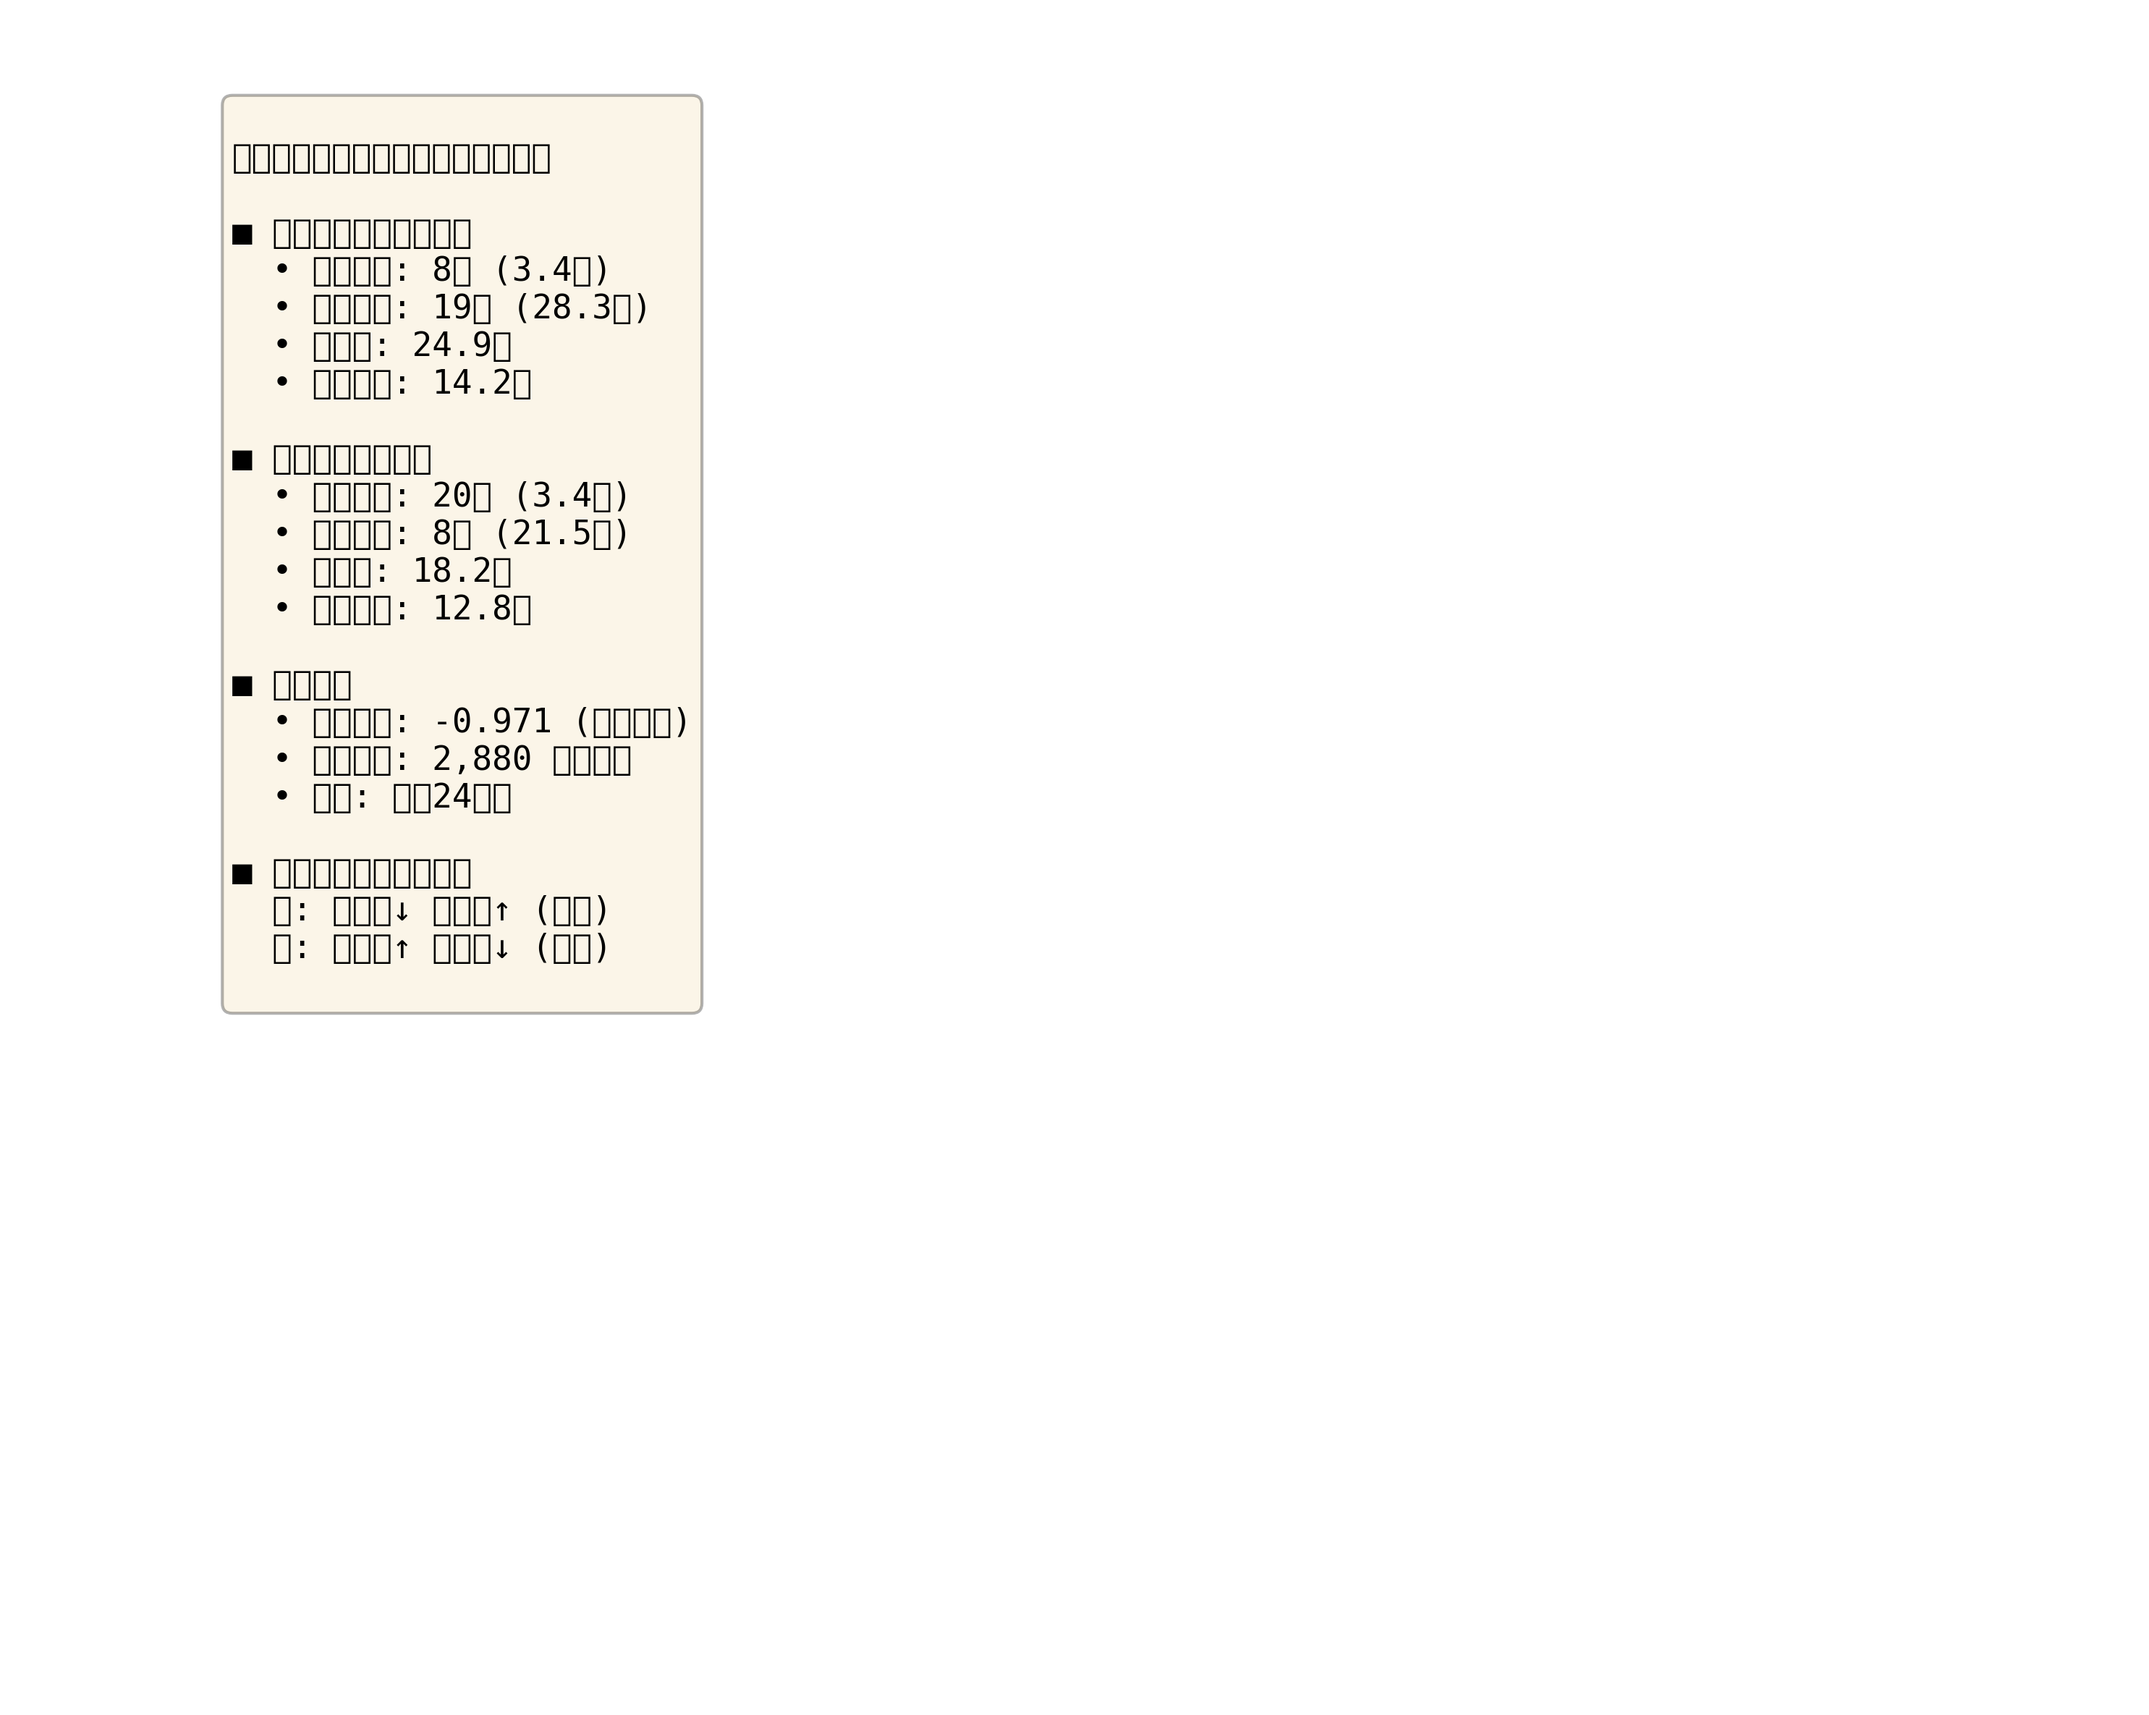
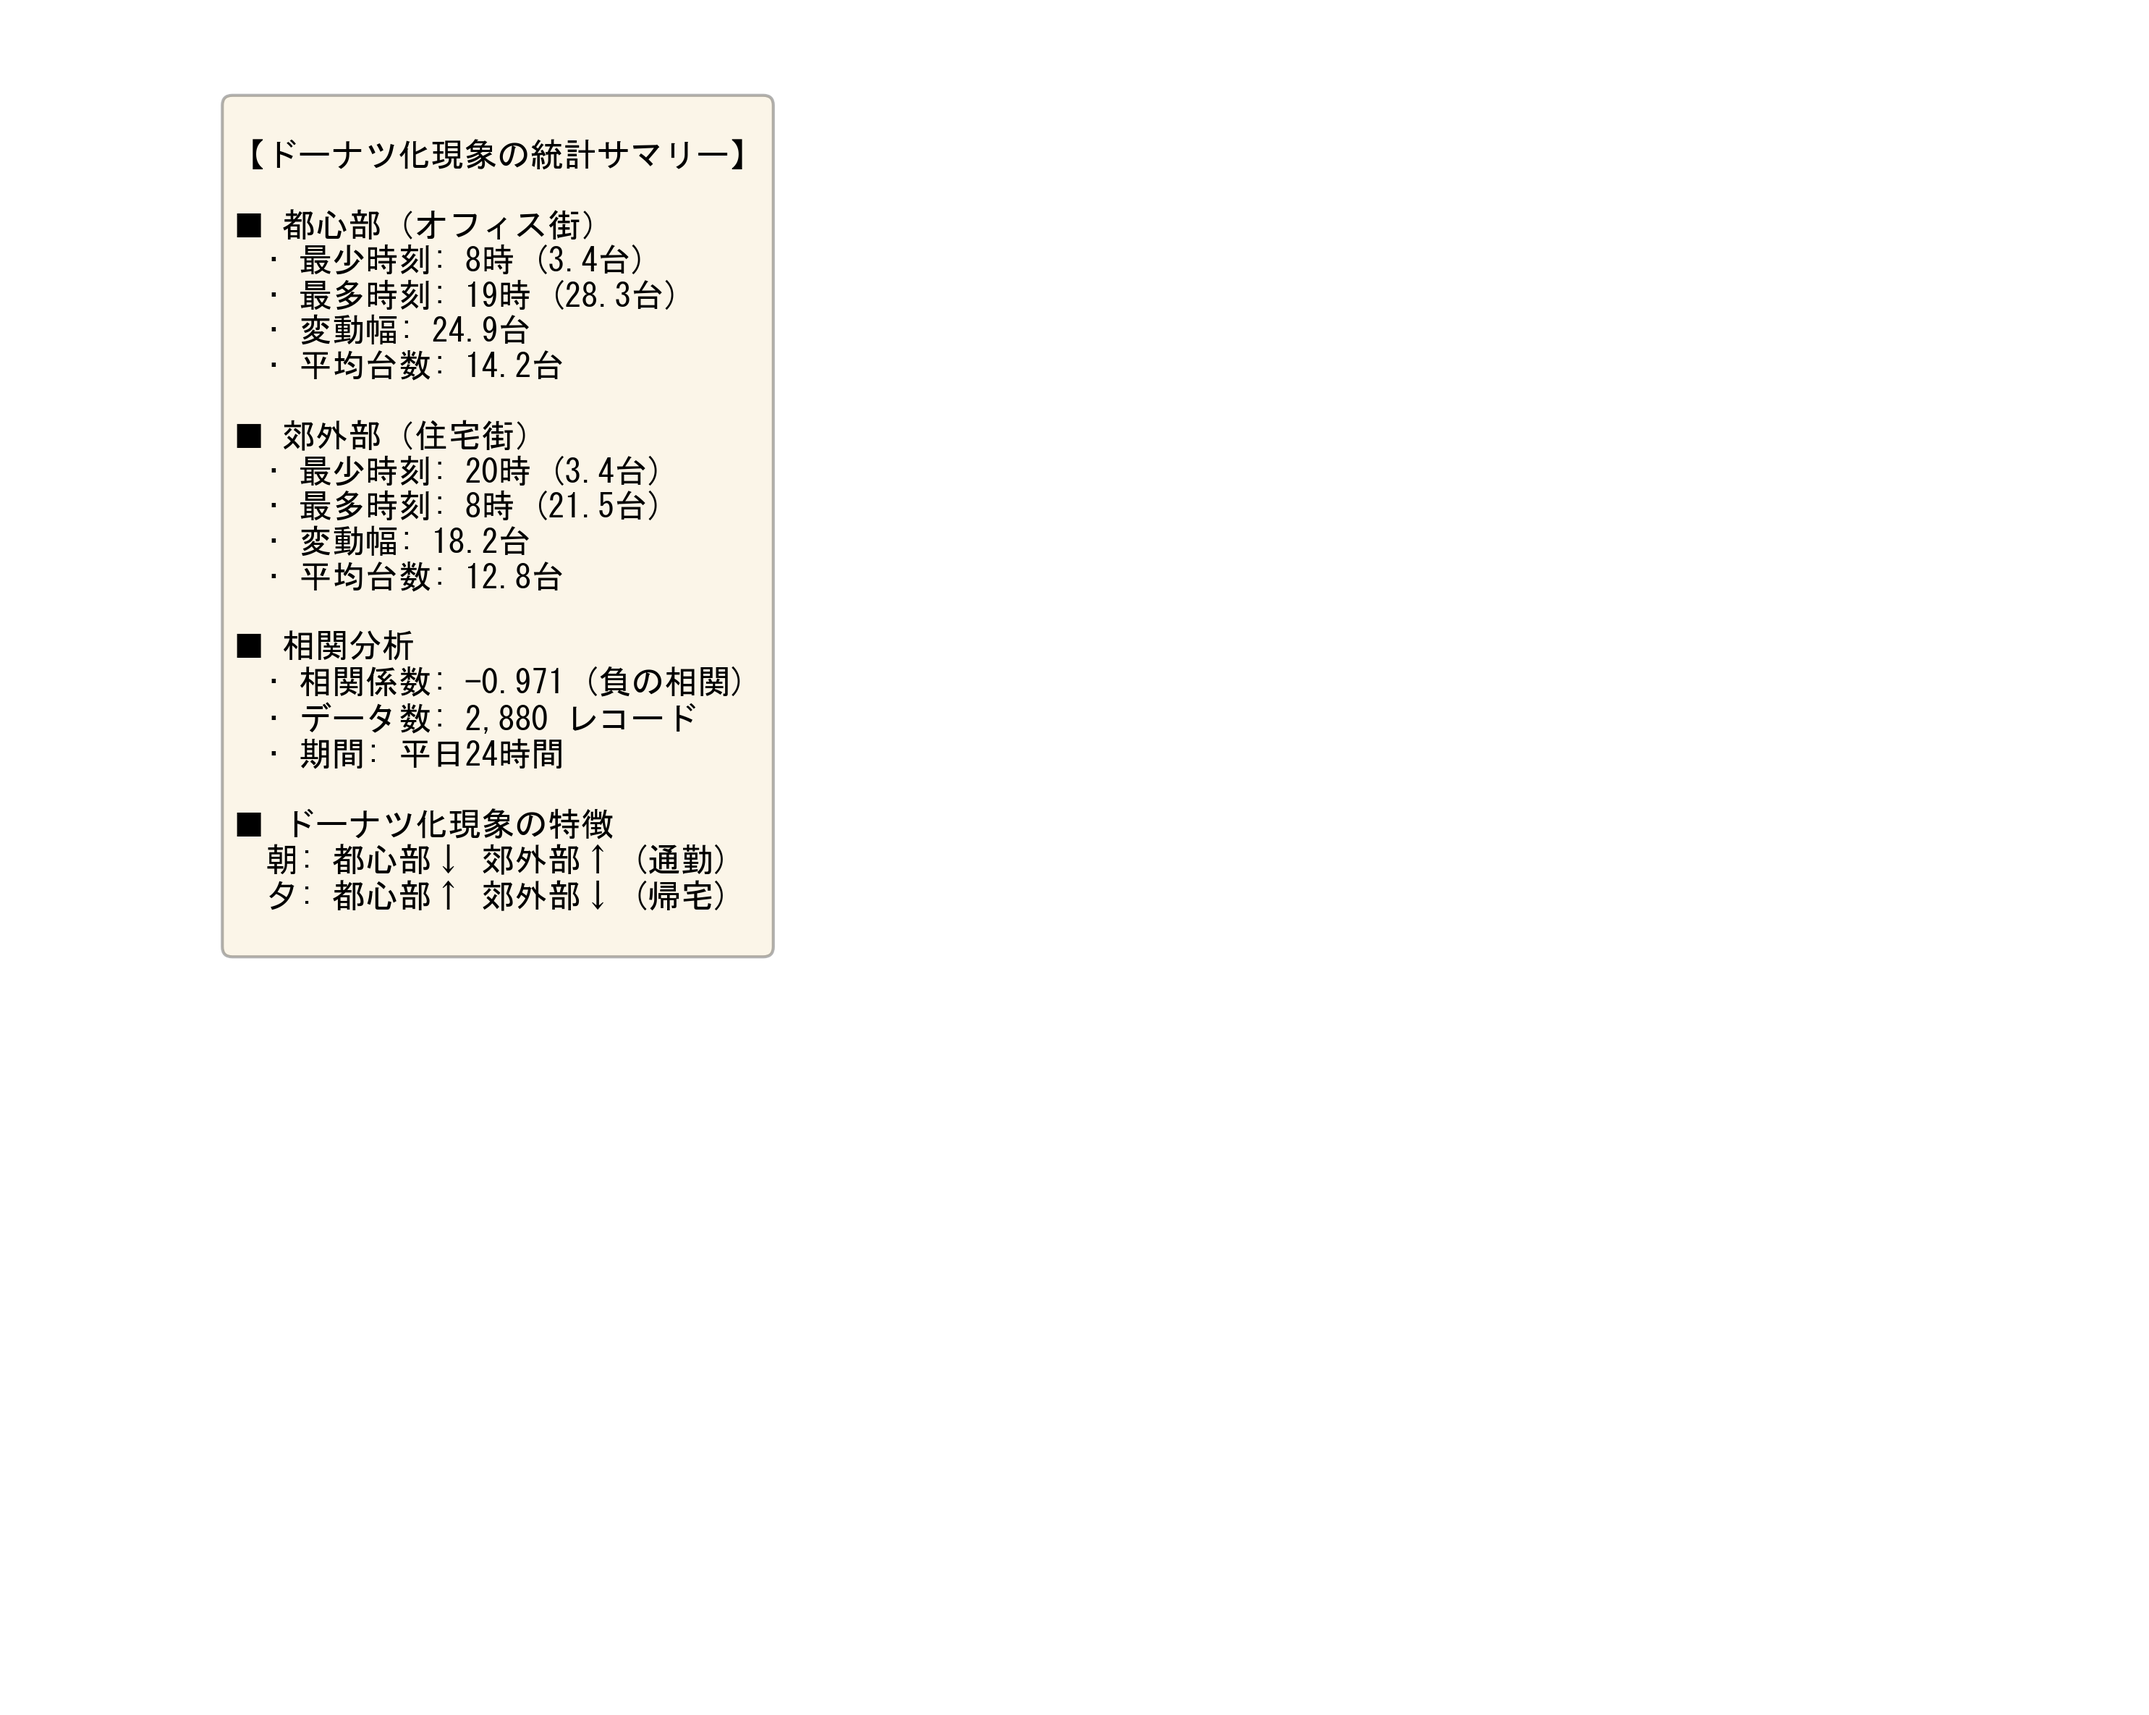
Fix Japanese character encoding in donut_6_summary.png by removing monospace font restriction

Changed region(s): [[0.0929, 0.0624, 0.3407, 0.562]]

diff --git a/DayLast/visualize_donut_pattern.py b/DayLast/visualize_donut_pattern.py
@@ -204,8 +204,7 @@ def visualize_donut_pattern():
     
     ax6.text(0.1, 0.95, summary_text, transform=ax6.transAxes,
              fontsize=11, verticalalignment='top',
-             bbox=dict(boxstyle='round', facecolor='wheat', alpha=0.3),
-             family='monospace')
+             bbox=dict(boxstyle='round', facecolor='wheat', alpha=0.3))
     
     plt.tight_layout()
     plt.savefig('donut_6_summary.png', dpi=300, bbox_inches='tight')
